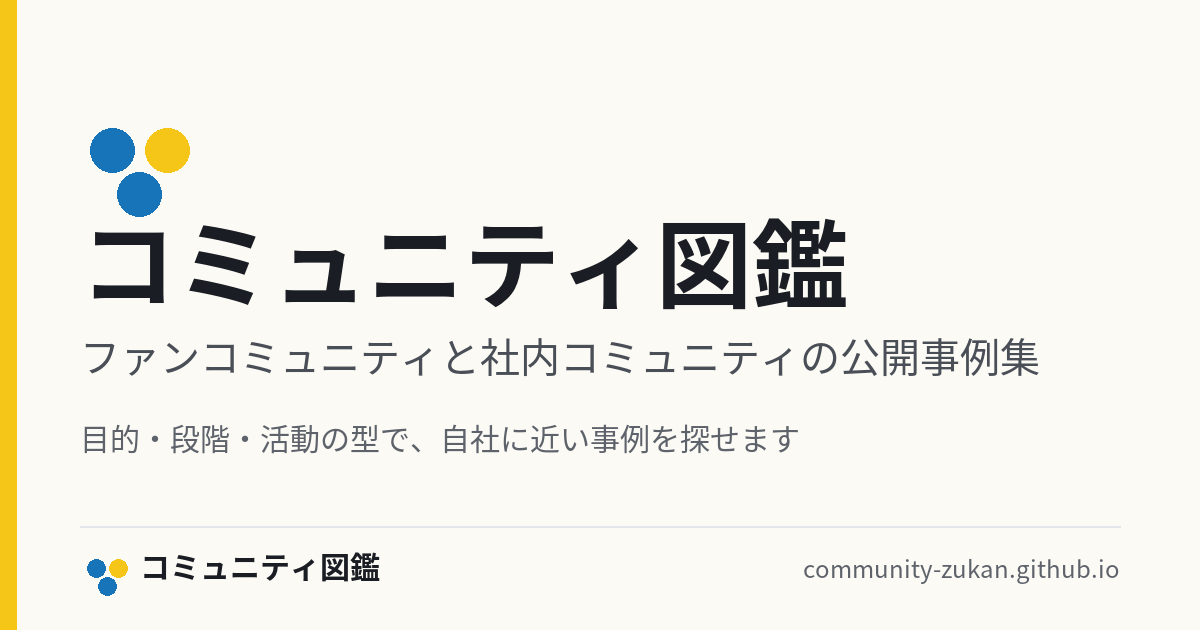
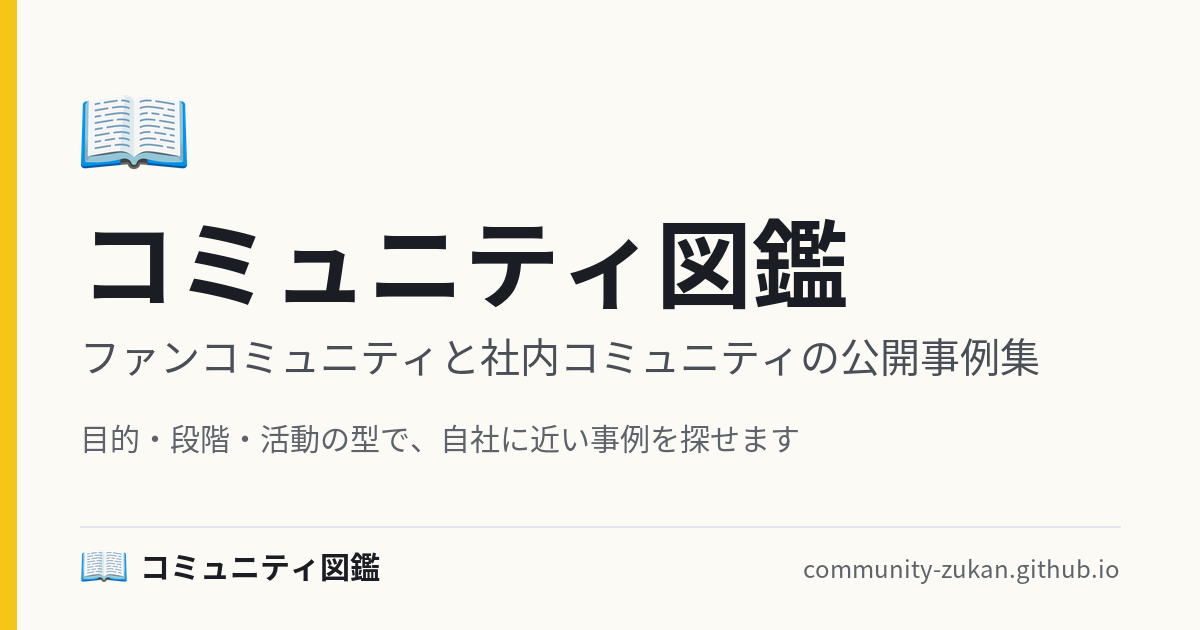
【デザイン】ロゴ・ファビコン・共有画像の絵を本を開いた絵文字「📖」に替える
Noto Emoji（Apache License 2.0）の絵を使い、「この図鑑について」に表記する。
戻し先のタグ zukan-before-icon-2026-11-05。

Changed region(s): [[0.0617, 0.1508, 0.1542, 0.3619], [0.0617, 0.8746, 0.1233, 0.9349]]

diff --git a/assets/style.css b/assets/style.css
@@ -81,7 +81,7 @@ a[target="_blank"]::after { content: "\2060↗"; margin-left: .15em; font-size: 
 .site-header { background: var(--base); border-bottom: 1px solid var(--line); }
 .header-inner { display: flex; flex-wrap: wrap; align-items: center; gap: var(--space-1) var(--space-2); padding-top: var(--space-3); padding-bottom: var(--space-3); }
 .logo { display: flex; align-items: center; gap: var(--space-2); font-family: var(--font-display); font-weight: 900; font-size: 19px; letter-spacing: .06em; color: var(--ink); text-decoration: none; margin-right: auto; }
-.logo-mark { width: 26px; height: 26px; flex: none; }
+.logo-mark { width: 30px; height: 30px; flex: none; }
 .global-nav { order: 4; flex-basis: 100%; display: flex; flex-wrap: wrap; gap: 0 var(--space-4); font-size: 14px; }
 .global-nav a { color: var(--ink); text-decoration: none; padding: 10px 0; white-space: nowrap; }
 .global-nav a:hover { color: var(--sky); text-decoration: underline; }

diff --git a/tools/make_og.py b/tools/make_og.py
@@ -3,7 +3,7 @@
 
   python3 tools/make_og.py                          # 公開用CSVから事例ごとの画像を作る
   python3 tools/make_og.py --csv testdata/public.csv  # 手元のCSVで作る
-  python3 tools/make_og.py --site                   # サイト全体の画像 assets/ogp.png を作り直す
+  python3 tools/make_og.py --site                   # サイト全体の画像 assets/ogp.png とファビコンの PNG を作り直す
 
 - 事例ごとの画像は og-items/{ID}.png に書きます。build.py が見つけたら /og/{ID}.png として公開し、
   事例ページの og:image にします。画像がない事例は assets/ogp.png のままです。
@@ -33,7 +33,6 @@ W, H = 1200, 630
 BG, SURFACE, INK, INK2, INK3 = "#fbfaf5", "#ffffff", "#1a1d23", "#4a4f57", "#5e636b"
 LINE, ACCENT, YELLOW = "#e3e6ea", "#1874b8", "#f5c518"
 TYPE_COLORS = {"社内": ("#1568a6", "#e8eef5"), "ファン・顧客": ("#6b4e00", "#fff3c4")}
-DOT_PEACH = YELLOW
 
 FONT_FILES = {
     "bold": ["/usr/share/fonts/opentype/noto/NotoSansCJK-Bold.ttc", "NotoSansCJKjp-Bold.otf"],
@@ -100,12 +99,24 @@ def wrap(draw, text, fnt, width, max_lines):
     return lines
 
 
-def dots(draw, x, y, r):
-    """ファビコンと同じ3つの丸。(x, y) は左上の丸の中心。"""
-    gap = r * 2.5
-    draw.ellipse([x - r, y - r, x + r, y + r], fill=ACCENT)
-    draw.ellipse([x + gap - r, y - r, x + gap + r, y + r], fill=DOT_PEACH)
-    draw.ellipse([x + gap / 2 - r, y + gap * 0.8 - r, x + gap / 2 + r, y + gap * 0.8 + r], fill=ACCENT)
+BOOK = os.path.join(ROOT, "tools", "emoji", "book-512.png")  # 本を開いた絵文字「📖」（Noto Emoji）
+
+
+def book(img, x, y, size):
+    """ファビコンと同じ「📖」の絵。(x, y) は絵の左上。"""
+    mark = Image.open(BOOK).convert("RGBA").resize((size, size), Image.LANCZOS)
+    img.paste(mark, (int(x), int(y)), mark)
+
+
+def make_icons():
+    """ファビコンの PNG（32px）と apple-touch-icon（180px、生成りの地）を作る。"""
+    src = Image.open(BOOK).convert("RGBA")
+    src.resize((32, 32), Image.LANCZOS).save(os.path.join(ROOT, "assets", "favicon-32.png"), optimize=True)
+    touch = Image.new("RGBA", (180, 180), BG)
+    mark = src.resize((140, 140), Image.LANCZOS)
+    touch.paste(mark, (20, 20), mark)
+    touch.convert("RGB").save(os.path.join(ROOT, "assets", "apple-touch-icon.png"), optimize=True)
+    print("作りました: assets/favicon-32.png・assets/apple-touch-icon.png")
 
 
 def frame(cfg):
@@ -114,7 +125,7 @@ def frame(cfg):
     d.rectangle([0, 0, 16, H], fill=YELLOW)
     # 下の帯：サイト名とURL
     d.line([(80, H - 104), (W - 80, H - 104)], fill=LINE, width=2)
-    dots(d, 96, H - 62, 9)
+    book(img, 80, H - 88, 48)
     d.text((140, H - 52), cfg["name"], font=font("bold", 30), fill=INK, anchor="ls")
     host = cfg["base_url"].split("//", 1)[-1].rstrip("/")
     d.text((W - 80, H - 52), host, font=font("regular", 24), fill=INK3, anchor="rs")
@@ -123,7 +134,7 @@ def frame(cfg):
 
 def make_site(cfg):
     img, d = frame(cfg)
-    dots(d, 112, 150, 22)
+    book(img, 78, 76, 112)
     d.text((80, 300), cfg["name"], font=font("bold", 96), fill=INK, anchor="ls")
     lines = wrap(d, cfg["subtitle"], font("regular", 40), W - 160, 2)
     y = 372
@@ -174,6 +185,7 @@ def main():
     cfg = build.load_config()
     if args.site:
         make_site(cfg)
+        make_icons()
         return
     cases = build.enrich(cfg, build.load_rows(cfg, args.csv))
     os.makedirs(OUT, exist_ok=True)

diff --git a/build.py b/build.py
@@ -540,10 +540,9 @@ def build_combos_index(cfg, combos):
 # ---------- HTML の部品 ----------
 
 
-# ヘッダーのロゴ（ファビコンと同じ絵：空色の地に3つの点、うち1つが黄色）
-LOGO_MARK = ('<svg class="logo-mark" viewBox="0 0 32 32" aria-hidden="true"><rect width="32" height="32" rx="7" fill="#1874b8"/>'
-             '<circle cx="11" cy="13" r="4" fill="#fff"/><circle cx="21" cy="13" r="4" fill="#f5c518"/>'
-             '<circle cx="16" cy="21" r="4" fill="#fff" opacity=".85"/></svg>')
+# ヘッダーのロゴ（ファビコンと同じ絵：本を開いた絵文字「📖」。Noto Emoji の絵を assets/icon.svg に置いている）
+def logo_mark(rel):
+    return f'<img class="logo-mark" src="{rel}assets/icon.svg?v={ver("icon.svg")}" alt="" width="30" height="30">'
 
 
 def nav_links(rel, path):
@@ -598,9 +597,9 @@ def page(cfg, *, title, description, path, body, depth=0, og_image=None, og_type
 <meta property="og:image:height" content="630">
 <meta property="og:image:alt" content="{esc(full_title)}">
 <meta name="twitter:card" content="summary_large_image">
-<link rel="icon" href="{rel}assets/icon.svg" type="image/svg+xml">
-<link rel="icon" href="{rel}assets/favicon-32.png" sizes="32x32" type="image/png">
-<link rel="apple-touch-icon" href="{rel}assets/apple-touch-icon.png">
+<link rel="icon" href="{rel}assets/icon.svg?v={ver('icon.svg')}" type="image/svg+xml">
+<link rel="icon" href="{rel}assets/favicon-32.png?v={ver('favicon-32.png')}" sizes="32x32" type="image/png">
+<link rel="apple-touch-icon" href="{rel}assets/apple-touch-icon.png?v={ver('apple-touch-icon.png')}">
 <link rel="preconnect" href="https://fonts.googleapis.com">
 <link rel="preconnect" href="https://fonts.gstatic.com" crossorigin>
 <link href="https://fonts.googleapis.com/css2?family=Zen+Kaku+Gothic+New:wght@700;900&display=swap" rel="stylesheet">
@@ -613,7 +612,7 @@ def page(cfg, *, title, description, path, body, depth=0, og_image=None, og_type
 <a class="skip" href="#main">本文へ移動</a>
 <header class="site-header">
   <div class="wrap header-inner">
-    <a class="logo" href="{rel or './'}">{LOGO_MARK}<span class="logo-name">{esc(cfg['name'])}</span></a>
+    <a class="logo" href="{rel or './'}">{logo_mark(rel)}<span class="logo-name">{esc(cfg['name'])}</span></a>
     <nav class="global-nav" id="global-nav" aria-label="サイト内">
       {nav_links(rel, path)}
     </nav>
@@ -1028,6 +1027,7 @@ def build_about(cfg, cases, updated):
 
   <h2>掲載内容について</h2>
   <p>内容の誤りのお知らせや、事例のご提案は、{contact_text(cfg)}</p>
+  <p>サイトのアイコン（本を開いた絵）は、Google の <a href="https://github.com/googlefonts/noto-emoji" rel="noopener" target="_blank">Noto Emoji</a> の絵を使っています（Apache License 2.0）。</p>
 
   <h2>運営者</h2>
   <div class="operator-card">
